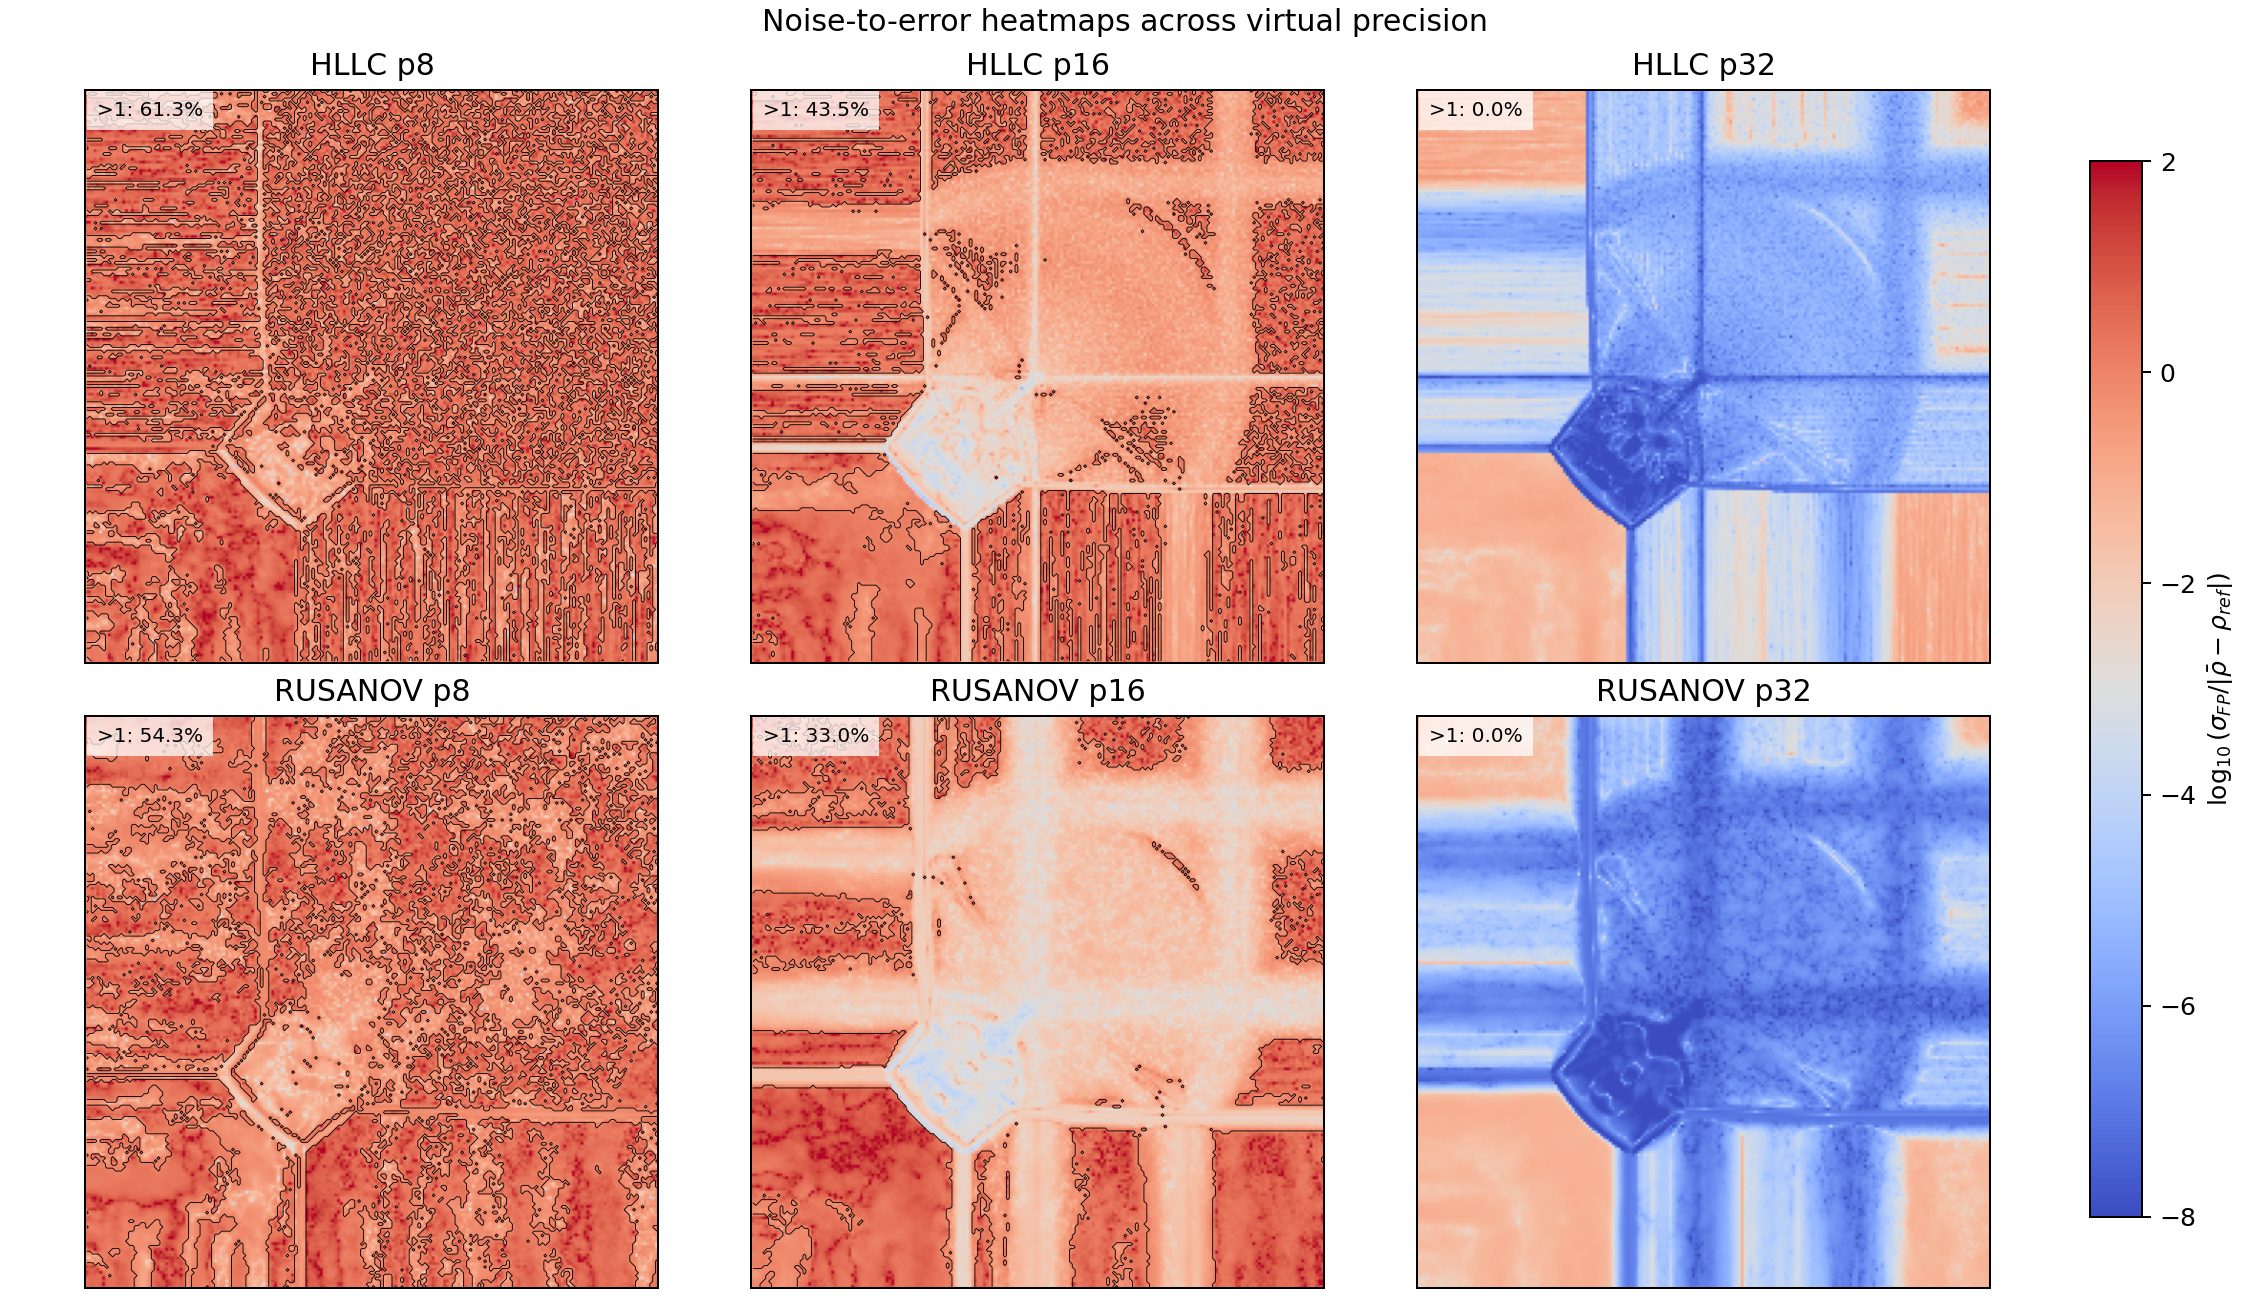
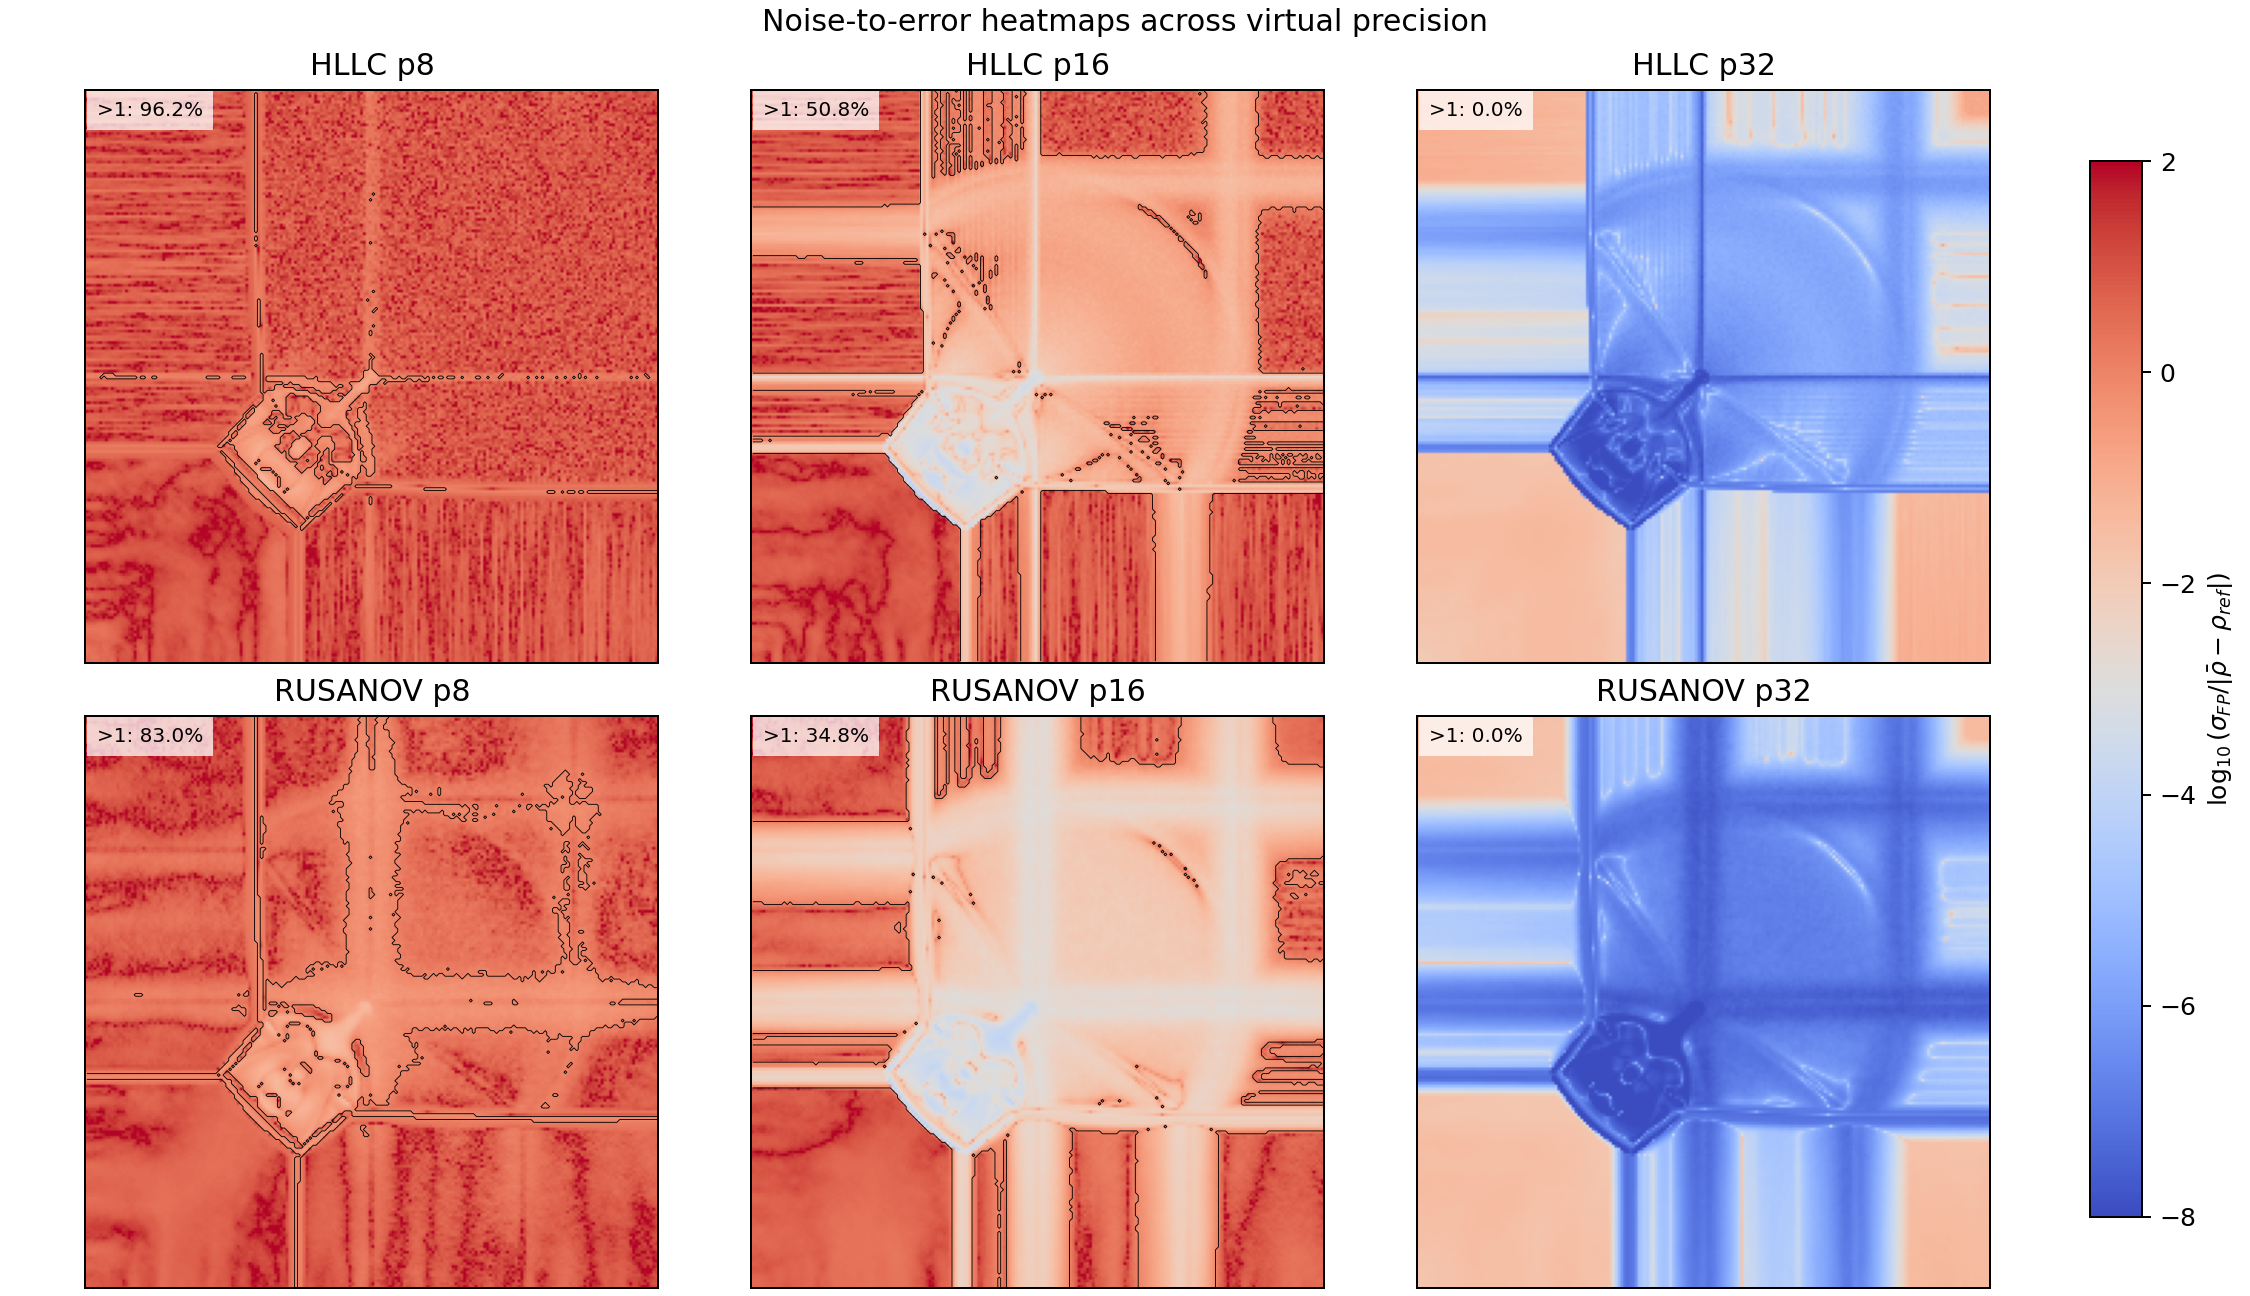
report1 revision: MCA n=30 reframe and Chapter 6 figure refresh

diff --git a/report1/phd-thesis-template-2.4/Chapter6/chapter6.tex b/report1/phd-thesis-template-2.4/Chapter6/chapter6.tex
@@ -11,13 +11,13 @@ Parker's Monte Carlo Arithmetic perturbs floating-point operations to form an en
 \begin{figure}[htbp]
 \centering
 \includegraphics[width=0.72\textwidth]{Figs/report1/sigma_fp_vs_precision.png}
-\caption{MCA-estimated \(\sigma_{\mathrm{FP}}\) trend for LW3 density. The roundoff scale decreases with virtual precision for both HLLC and Rusanov. Differences between the curves reflect method variation: the arithmetic path changes, and Rusanov's extra diffusion smooths gradients, so lower or similar \(\sigma_{\mathrm{FP}}\) is not an accuracy ranking.}
+\caption{MCA-estimated \(\sigma_{\mathrm{FP},L_1}\) for LW3 density: the spatial mean of the per-cell sample standard deviation across $n = 30$ seeds. The roundoff scale decreases with virtual precision for both HLLC and Rusanov; differences between the curves reflect method variation (different arithmetic path; Rusanov's extra diffusion smooths gradients), so lower or similar \(\sigma_{\mathrm{FP},L_1}\) is not an accuracy ranking. Values near $10^{-11}$ at \texttt{p53} approach the fp64 noise floor and bound rather than measure the rounding scale at that precision.}
 \label{fig:ch6-sigma-fp}
 \end{figure}
 
-The loss-of-significance score LoSoS gives a complementary view of the same LW3 density samples. Figure~\ref{fig:ch6-losos-quantiles} reports sample quantiles rather than the worst cell: for HLLC the median LoSoS rises with virtual precision, while lower quantiles stay closer to the front-sensitive part of the field (Fig.~\ref{fig:ch6-losos-quantiles}). The raw-field quantiles use only two or three samples per virtual precision, so they are spatial diagnostics, not statistically meaningful distribution or confidence estimates.
+The loss-of-significance score LoSoS gives a complementary view of the same LW3 density samples. Figure~\ref{fig:ch6-losos-quantiles} reports sample quantiles rather than the worst cell: for HLLC the median LoSoS rises with virtual precision, while lower quantiles stay closer to the front-sensitive part of the field (Fig.~\ref{fig:ch6-losos-quantiles}). All MCA results in this chapter use $n = 30$ independent seeds per (precision, solver); the raw-field q05 / q25 / median quantiles are therefore distributional estimates within the sample-count guidance of~\citet{sohier_etal_2021}, not exploratory single-realisation snapshots.
 
-The required-significant-digits threshold \(s_{\mathrm{req}}\) turns LoSoS into a regional margin. Figure~\ref{fig:ch6-region-losos} plots available digits at \texttt{p32} minus \(s_{\mathrm{req}}\). For HLLC at \texttt{p32}, the smooth interior keeps a positive margin while the shock-front band is negative; the transition/contact band sits in between (Fig.~\ref{fig:ch6-region-losos}). The same pattern appears in Fig.~\ref{fig:ch6-noise-error}: for HLLC, the fraction of cells with MCA noise above the reference-error scale drops monotonically with virtual precision (Fig.~\ref{fig:ch6-noise-error}). This reading is consistent with the LW12 localisation in Chapter~5, but remains bounded to the tested precisions, cases, and LW3 MCA grid.
+The required-significant-digits threshold \(s_{\mathrm{req}}\) turns LoSoS into a regional margin. Figure~\ref{fig:ch6-region-losos} plots available digits at \texttt{p32} minus \(s_{\mathrm{req}}\). For HLLC at \texttt{p32}, the smooth interior keeps a positive margin while the shock-front band is negative; the transition/contact band sits in between (Fig.~\ref{fig:ch6-region-losos}). The same pattern appears in Fig.~\ref{fig:ch6-noise-error}: for HLLC, the fraction of cells with MCA noise above the reference-error scale drops monotonically with virtual precision (Fig.~\ref{fig:ch6-noise-error}). This reading is consistent with the LW12 localisation in Chapter~5, but remains bounded to the tested precisions, cases, and LW3 MCA grid. At \texttt{p32}, the fraction of LW3 cells with MCA noise above the reference-error scale is $0\,\%$ for both HLLC and Rusanov, supporting \texttt{p32} as adequate for this LW3 case at the tested resolution. The \texttt{p8} curves are reported as a low-precision stress diagnostic only; the binary checkpoint header reaches $t \approx 0.3035$ while stderr stops at the requested $t = 0.3$, so \texttt{p8} quantiles must not be read as final-time equivalents to \texttt{p16} / \texttt{p32} / \texttt{p53}.
 
 \begin{figure}[htbp]
 \centering
@@ -96,8 +96,11 @@ The limitations are evidence-specific:
   \item Hardware evidence uses one NVIDIA RTX 4060 Laptop GPU and one
         x86\_64 host; cross-device portability is not claimed.
   \item Verificarlo \texttt{p32} is a virtual mantissa precision, distinct
-        from IEEE binary32, and the two- or three-sample MCA diagnostics are
-        spatial sensitivity maps rather than statistical distribution estimates.
+        from IEEE binary32; the $n = 30$ MCA diagnostics support sample-quantile
+        reading at \texttt{p16}, \texttt{p32}, and \texttt{p53}, while \texttt{p8}
+        is a low-precision stress diagnostic only because final-time alignment
+        is approximate (the binary checkpoint header reaches $t \approx 0.3035$
+        while stderr stops at the requested $t = 0.3$).
   \item Toro Test 2 with the strict \(<\) HLLC branch is a single-case
         diagnostic: the first-step equality fall-through is logged, but no
         systematic branch-rule study is claimed.

diff --git a/report1/phd-thesis-template-2.4/Chapter4/chapter4.tex b/report1/phd-thesis-template-2.4/Chapter4/chapter4.tex
@@ -187,19 +187,16 @@ Verificarlo runs are diagnostic, not real fp32/fp64 runs. Following Parker's
 Monte Carlo arithmetic formulation~\citep{parker_1997} and Denis et al.'s
 Verificarlo tool~\citep{denis_etal_2016}, the solver is built through the
 MCA/virtual-precision toolchain in MCA mode with the random-rounding (RR)
-operator, and sampled with independent seeds. The virtual-precision labels
-\texttt{p8}, \texttt{p16}, \texttt{p32}, and \texttt{p53} are not IEEE
-binary storage formats (see Section~2.4). The per-configuration sample budget
-is deliberately small: two or three samples per virtual precision are not
-statistically defensible for confidence intervals or distributional quantiles,
-so Chapter~6 uses them only as spatial localisation diagnostics.
-For a primitive component \(q_j\), the sample standard deviation
-\(\sigma_{\mathrm{FP},j}=\operatorname{std}_k(q_j^{(k)})\) gives a local
-roundoff scale for comparison with field magnitude or local reference error.
-RAPTOR remains a possible
-future tool for automated mixed-precision source transformation; Report 1 does
-not present per-routine precision rewrites. Direct fp32 claims come only from
-real fp32/fp64 comparisons against the chosen reference solution.
+operator, and sampled with $n = 30$ independent seeds per (precision, solver)
+at virtual precisions \texttt{p8}, \texttt{p16}, \texttt{p32}, and \texttt{p53},
+for both HLLC and Rusanov. The sample count exceeds the minimum recommended by
+\citet{sohier_etal_2021} for the chosen significant-digits / confidence regime.
+For a primitive component $q_j$, the sample standard deviation
+$\sigma_{\mathrm{FP},j}=\operatorname{std}_k(q_j^{(k)})$ gives a local roundoff
+scale, used in Chapter~6 together with q05 / q25 / median spatial quantiles.
+The virtual-precision labels are diagnostic mantissa settings rather than IEEE
+storage formats (see Section~2.4); direct fp32 claims come only from real
+fp32/fp64 comparisons against the chosen reference solution.
 % <<SECTION_3_END>>
 
 \section{Test-Case Matrix and Metrics}
